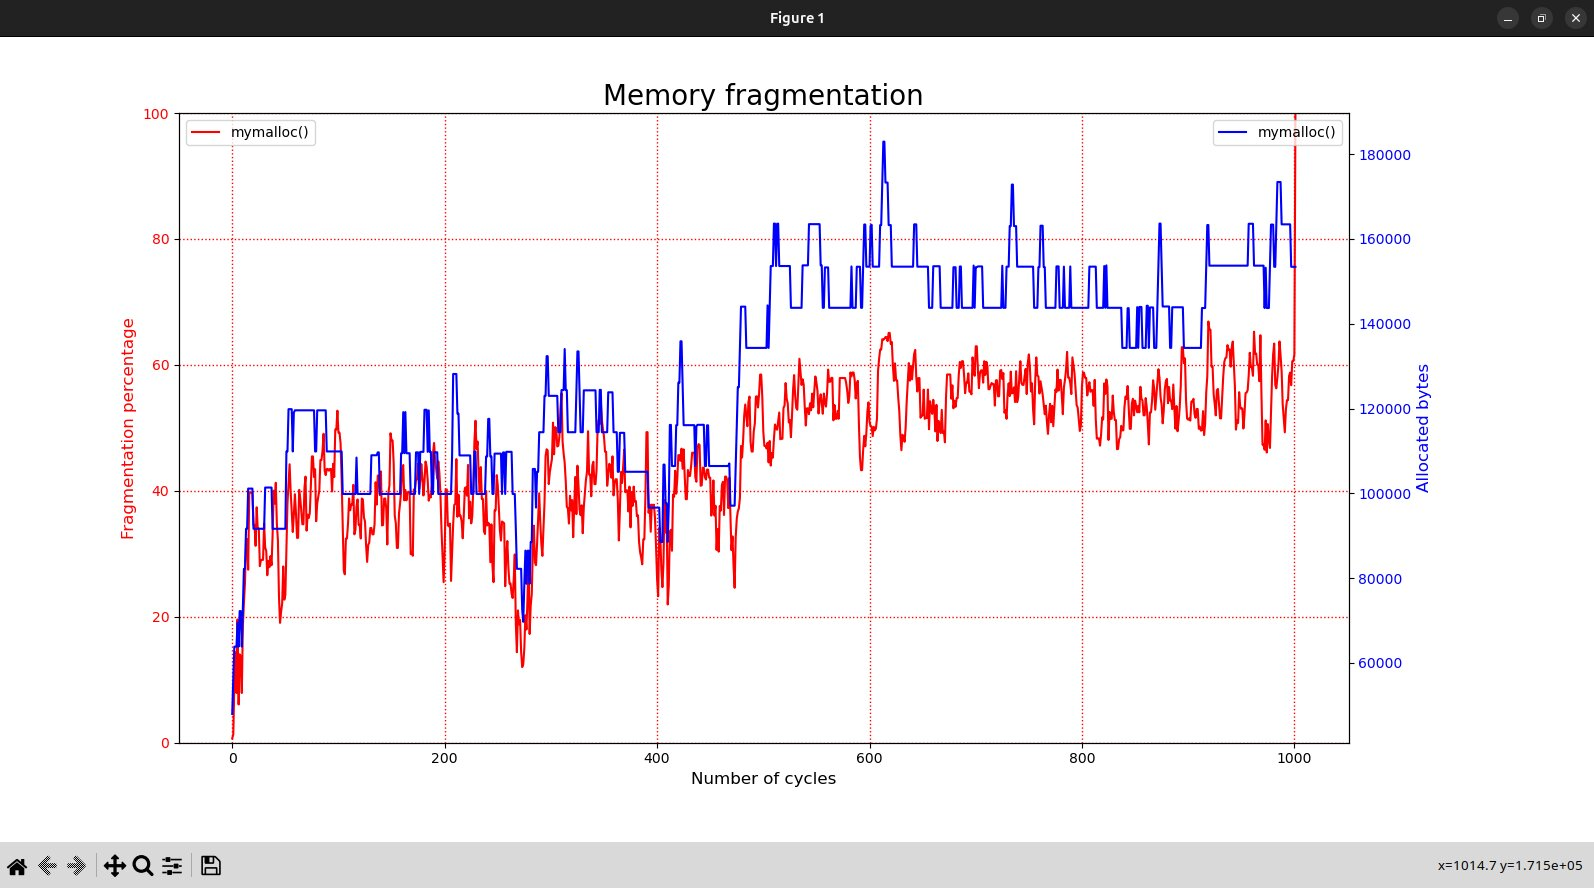
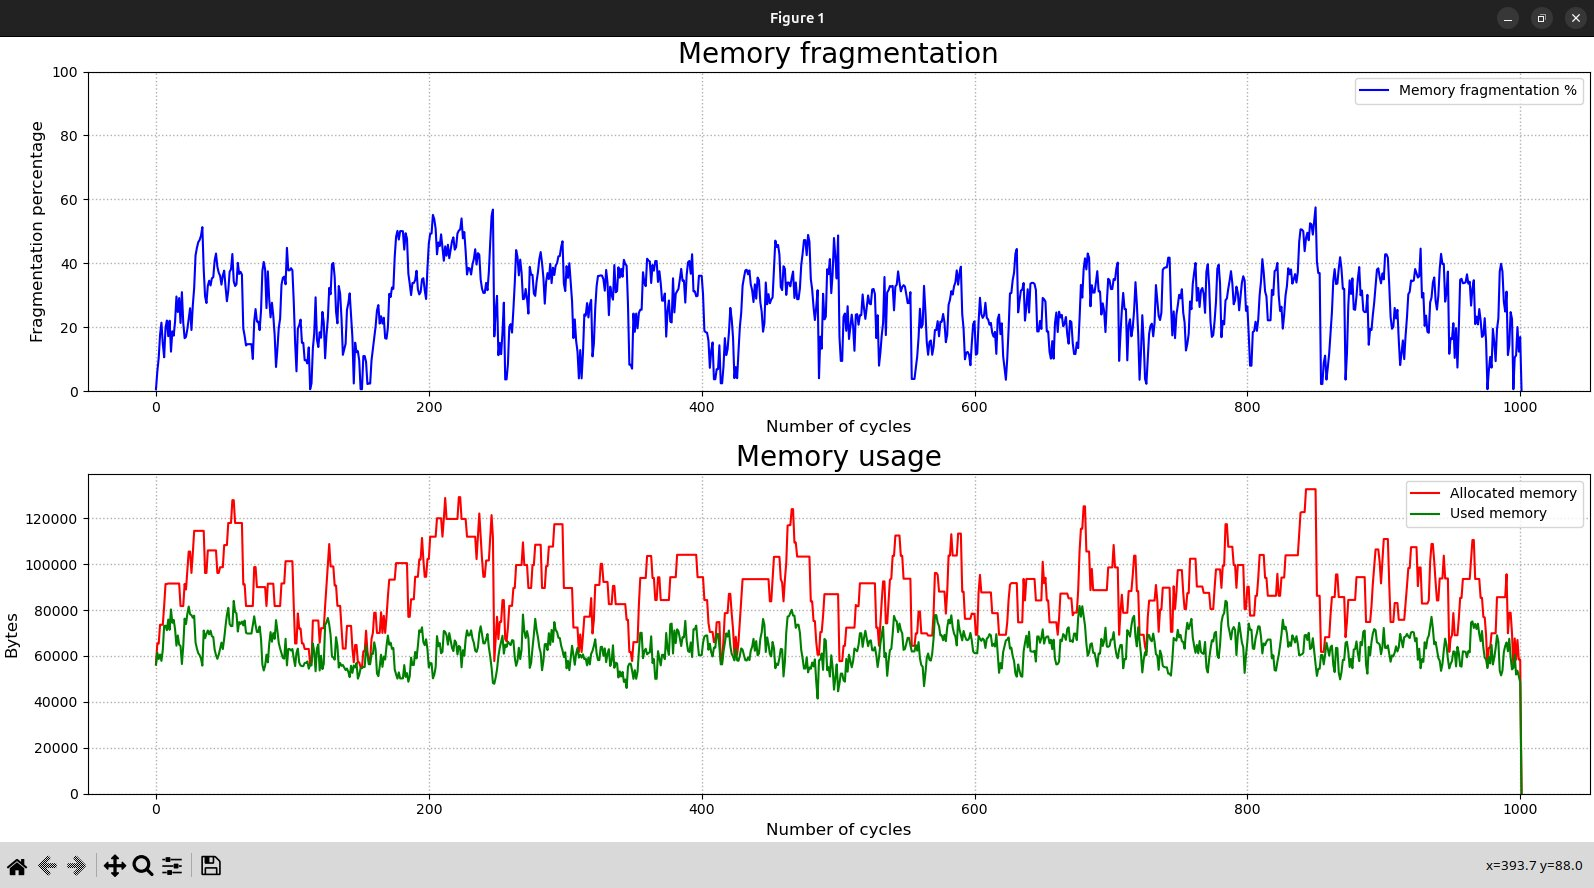
README: updated README with new options and new test
Updated "README.md" to include the new macro options to modify how the
library is compiled.

Also, modified the "test_preview.jpg" image, to now show the updated test
ouput.

diff --git a/README.md b/README.md
@@ -67,7 +67,8 @@ make test && build/test_myallocs && python3 plot.py
 ### Extra
 
 Inside the `Makefile`, it is described how it is possible to modify how the library functions will work by defining certain macros. The currently supported macros are the following:
-- `MYALLOCS_BEST_FIT` = force the library functions to use the "BEST FIT" policy (instead of the standard "FIRST FIT" policy).
+- `MYALLOCS_BEST_FIT` = force the library functions to use the "BEST FIT" policy (instead of the standard "FIRST FIT" policy)
+- `MYALLOCS_FULL_DEALLOC` = force the library functions to try to deallocate as much free memory as possible
 
 ## Resources
 
